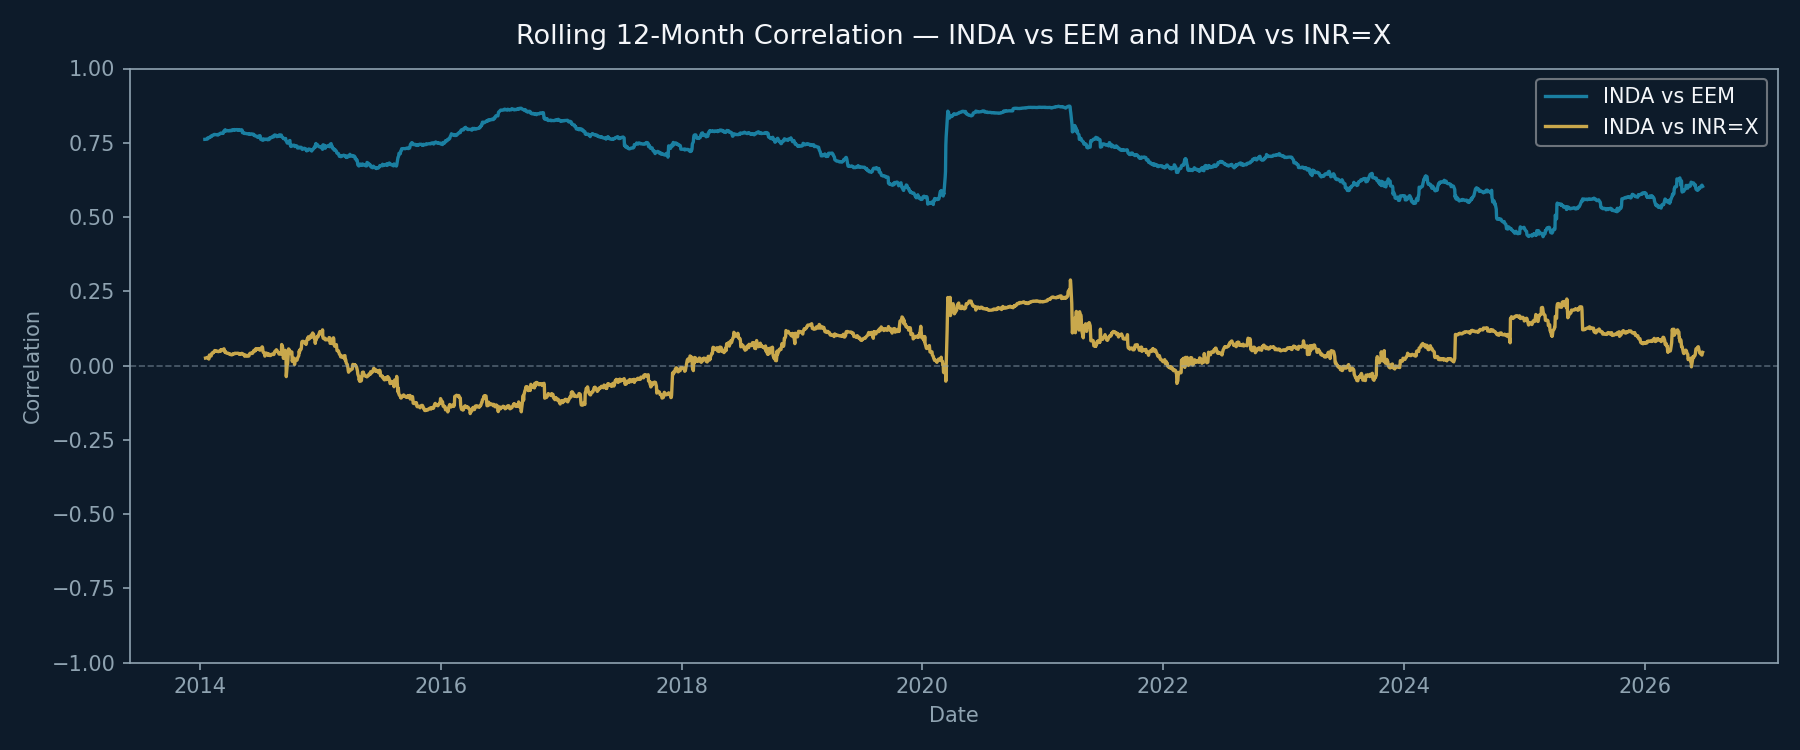
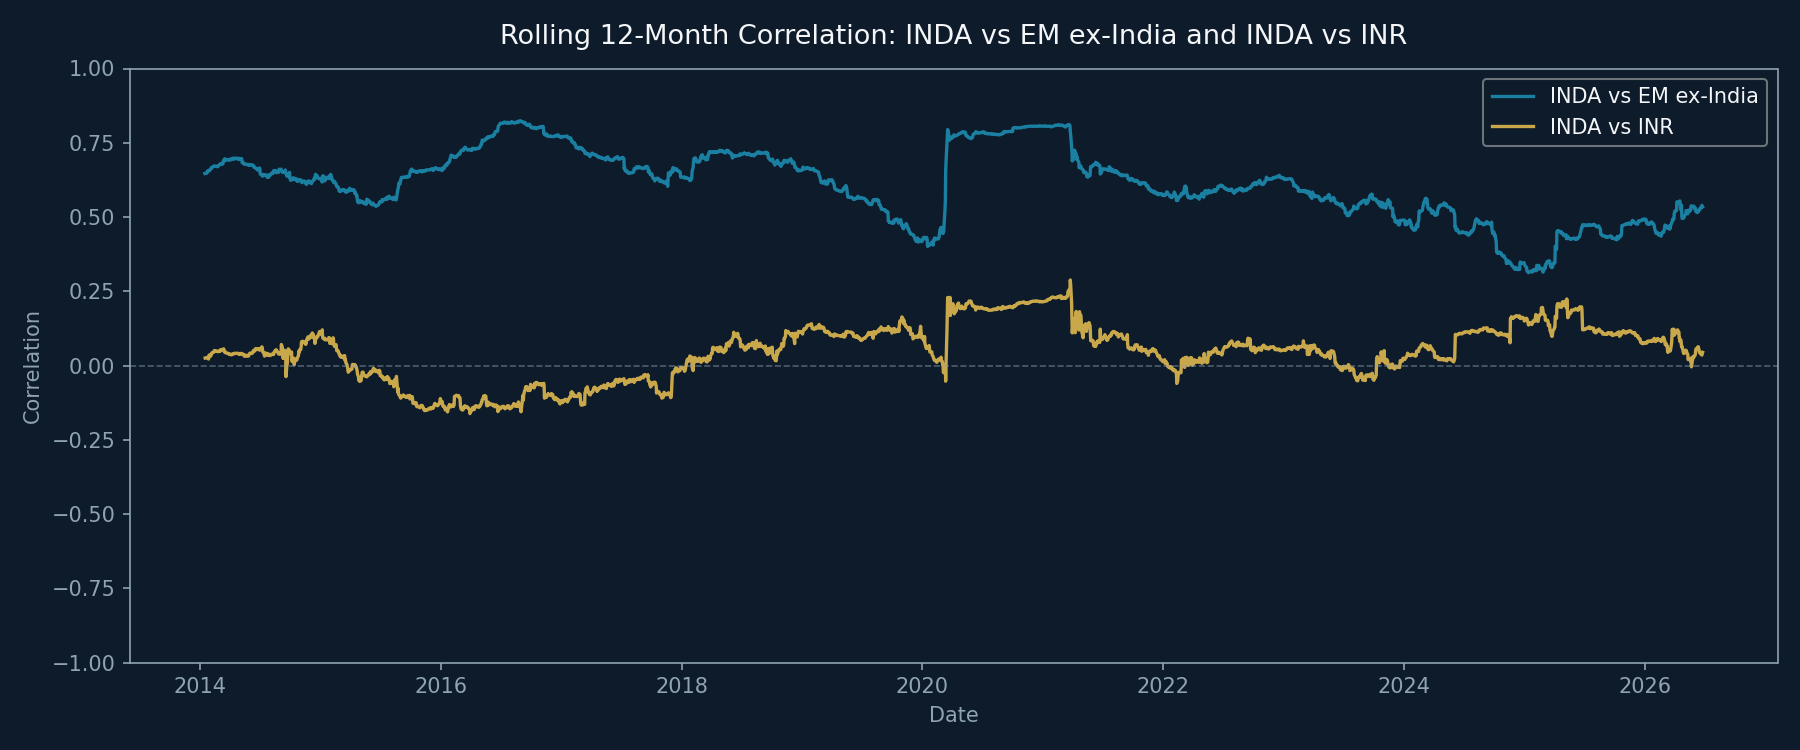
Correct Layer 1 charts to use EM ex-India benchmark consistently

diff --git a/src/bronze/analysis.py b/src/bronze/analysis.py
@@ -33,7 +33,8 @@ WHITE = "#F4F6F9"
 TEAL  = "#1A7FA1"
 
 # One consistent colour per ticker so every chart reads the same legend
-TICKER_COLORS = {"INDA": GOLD, "EEM": TEAL, "FXI": RED}
+TICKER_COLORS = {"INDA": GOLD, "EEM_exIndia": TEAL, "FXI": RED}
+TICKER_LABELS = {"INDA": "INDA", "EEM_exIndia": "EM ex-India", "FXI": "FXI"}
 
 # Where the PNGs go — resolved relative to this file so it works regardless
 # of which directory you launch from
@@ -68,13 +69,13 @@ def chart_cumulative_return(cumulative: pd.DataFrame) -> str:
             cumulative[ticker],
             color=TICKER_COLORS[ticker],
             linewidth=1.8,
-            label=ticker,
+            label=TICKER_LABELS.get(ticker, ticker),
         )
 
     ax.axhline(100, color=SLATE, linewidth=0.8, linestyle="--", alpha=0.5)
 
     ax.set_title(
-        "Cumulative USD Return — Growth of $100 (2013–present)",
+        "Cumulative USD Return: Growth of $100 (2013 to present)",
         color=WHITE, fontsize=13, pad=12,
     )
     ax.set_xlabel("Date", color=SLATE)
@@ -91,7 +92,7 @@ def chart_vol_drawdown(metrics: pd.DataFrame) -> str:
     # for each ETF. Grouping them together makes the risk profile comparison
     # immediate — you can see in one glance which ETF was bumpiest.
 
-    etf_order = ["INDA", "EEM", "FXI"]
+    etf_order = ["INDA", "EEM_exIndia", "FXI"]
     metrics_plot = metrics[metrics["Ticker"].isin(etf_order)].set_index("Ticker")
     metrics_plot = metrics_plot.reindex(etf_order)
 
@@ -124,7 +125,7 @@ def chart_vol_drawdown(metrics: pd.DataFrame) -> str:
         )
 
     ax.set_xticks(list(x))
-    ax.set_xticklabels(etf_order, color=WHITE)
+    ax.set_xticklabels([TICKER_LABELS.get(t, t) for t in etf_order], color=WHITE)
     ax.set_title("Annualised Volatility and Max Drawdown by ETF", color=WHITE, fontsize=13, pad=12)
     ax.set_ylabel("Percent (%)", color=SLATE)
     ax.tick_params(colors=SLATE)
@@ -143,15 +144,18 @@ def chart_rolling_correlation(corr: dict) -> str:
     fig, ax = plt.subplots(figsize=(12, 5), facecolor=NAVY)
     ax.set_facecolor(NAVY)
 
-    ax.plot(corr["INDA_EEM"].index, corr["INDA_EEM"],
-            color=TEAL, linewidth=1.6, label="INDA vs EEM")
+    em_series = corr.get("INDA_EEM_exIndia", corr.get("INDA_EEM"))
+    em_label  = "INDA vs EM ex-India" if "INDA_EEM_exIndia" in corr else "INDA vs EEM"
+
+    ax.plot(em_series.index, em_series,
+            color=TEAL, linewidth=1.6, label=em_label)
     ax.plot(corr["INDA_INR"].index, corr["INDA_INR"],
-            color=GOLD, linewidth=1.6, label="INDA vs INR=X")
+            color=GOLD, linewidth=1.6, label="INDA vs INR")
 
     ax.axhline(0, color=SLATE, linewidth=0.8, linestyle="--", alpha=0.5)
 
     ax.set_title(
-        "Rolling 12-Month Correlation — INDA vs EEM and INDA vs INR=X",
+        "Rolling 12-Month Correlation: INDA vs EM ex-India and INDA vs INR",
         color=WHITE, fontsize=13, pad=12,
     )
     ax.set_xlabel("Date", color=SLATE)
@@ -178,7 +182,7 @@ def chart_verdict_card(metrics: pd.DataFrame, verdict: str) -> str:
     ax.axis("off")  # no axes — this is a text card, not a data plot
 
     # Title
-    ax.text(0.5, 0.92, "Thesis Verdict — India vs EM (2013–present)",
+    ax.text(0.5, 0.92, "Thesis Verdict: India vs EM (2013 to present)",
             ha="center", va="top", color=WHITE, fontsize=14, fontweight="bold",
             transform=ax.transAxes)
 
@@ -376,9 +380,9 @@ def main():
     prices_aug["EEM_exIndia"] = ex_price_index
     metrics = compute_risk_metrics(prices_aug)
 
-    # Step 4: Rolling correlation
+    # Step 4: Rolling correlation — use prices_aug so EEM_exIndia is available
     print("\n[4/5] Running correlation analysis...")
-    corr = run_correlation_analysis(prices)
+    corr = run_correlation_analysis(prices_aug)
 
     # Step 5: Verdict
     print("\n[5/5] Computing verdict...")

diff --git a/src/data_engine.py b/src/data_engine.py
@@ -208,7 +208,21 @@ def run_correlation_analysis(prices: pd.DataFrame) -> dict:
         .dropna()
     )
 
-    return {"INDA_EEM": corr_inda_eem, "INDA_INR": corr_inda_inr}
+    result = {"INDA_EEM": corr_inda_eem, "INDA_INR": corr_inda_inr}
+
+    # If the EEM_exIndia synthetic series is present (added by the caller via
+    # prices_aug), compute its rolling correlation with INDA so charts can use
+    # the corrected benchmark instead of raw EEM.
+    if "EEM_exIndia" in prices.columns:
+        pair_ex = all_returns[["INDA", "EEM_exIndia"]].dropna()
+        result["INDA_EEM_exIndia"] = (
+            pair_ex["INDA"]
+            .rolling(window)
+            .corr(pair_ex["EEM_exIndia"])
+            .dropna()
+        )
+
+    return result
 
 
 def compute_verdict(metrics: pd.DataFrame) -> str:
